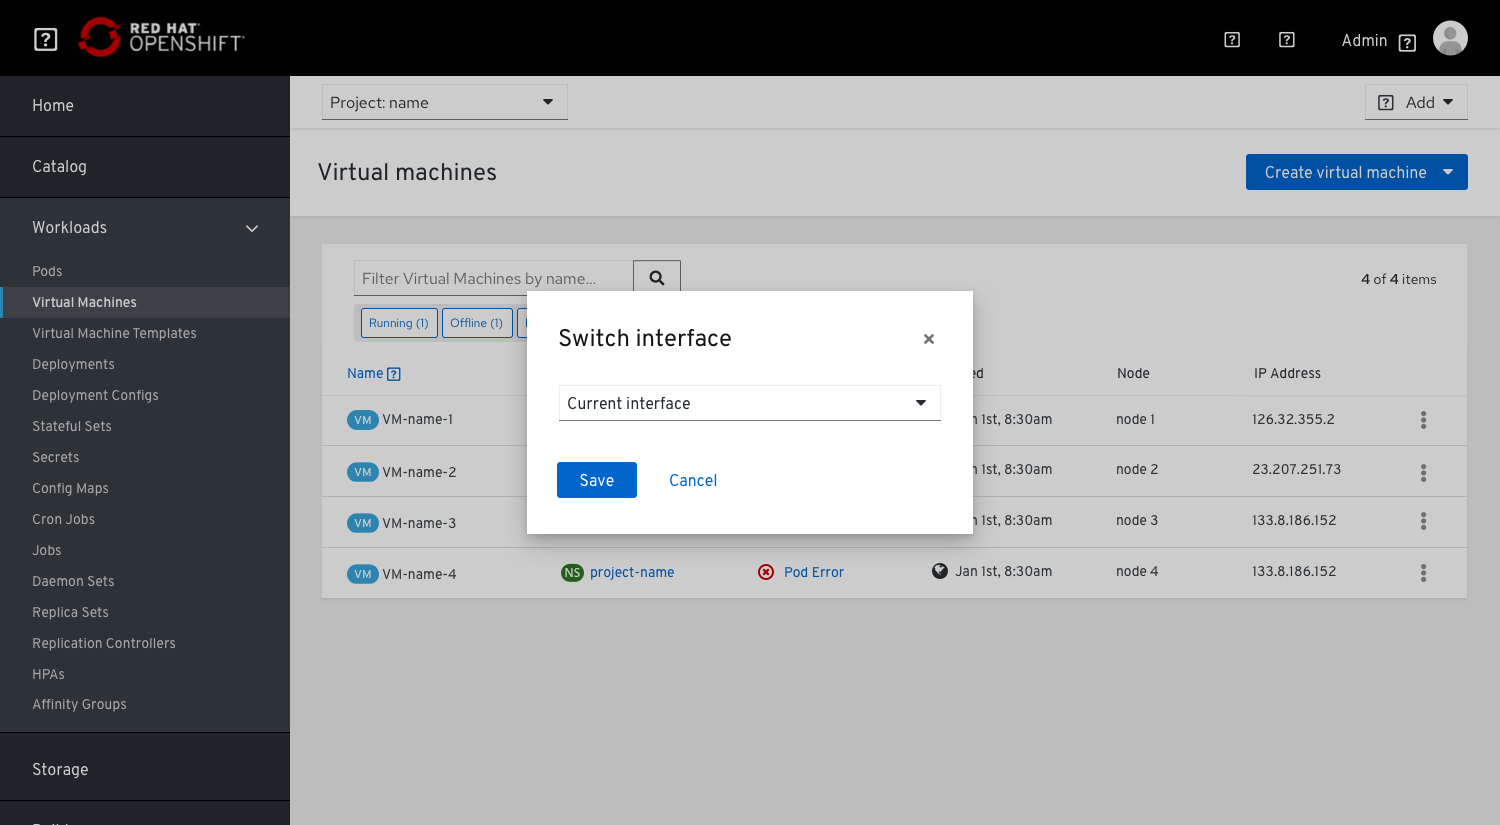
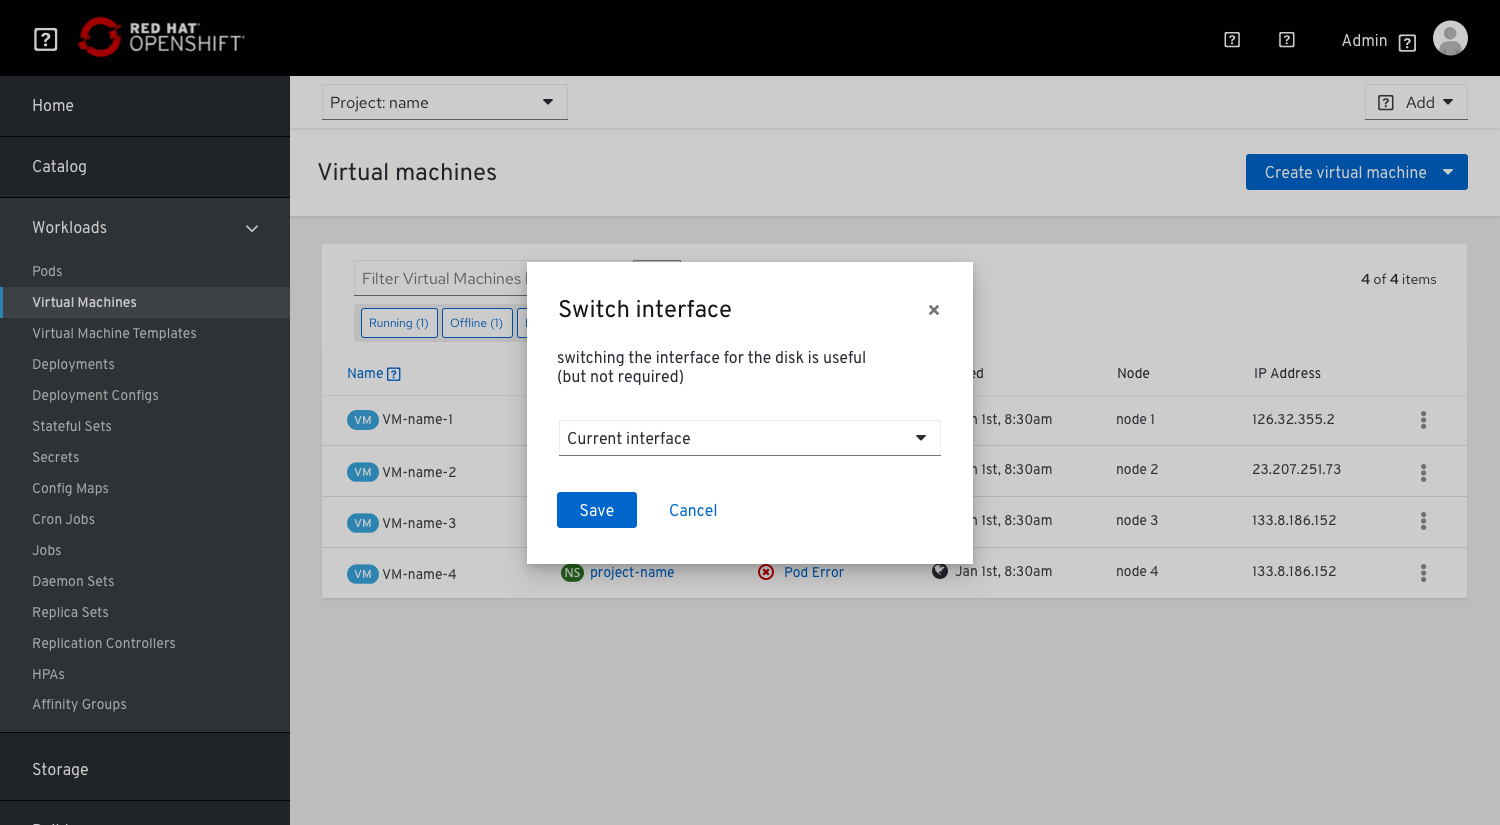
noting that switching interface is required but not mandatory

Changed region(s): [[0.3373, 0.303, 0.6747, 0.697]]

diff --git a/web-console/knikubevirt/windows-vms/windows-vms.md b/web-console/knikubevirt/windows-vms/windows-vms.md
@@ -48,7 +48,7 @@ If they choose to switch Interfaces they will be asked when they choose to sched
 
 ![user can schedule to switch interface](img/SwitchInterface.png)
 
-This is another option that allows the user to change the interface without scheduling a specific time, so just a dropdown with the current interface selected by default (the other option in the drop down would be Virtio-scsi interface) and then the user can either Save or Cancel the change
+This is another option that allows the user to change the interface without scheduling a specific time, so just a dropdown with the Sata interface (currently selected) by default (the other option in the drop down would be Virtio-scsi interface) and then the user can either Save or Cancel the change
 ![user can switch interface](img/SwitchInterfaceOp2.png)
 
 The users would need to be aware that switching the interface for the disk is useful (but not required). It’s important to note that it’s not required because they will not get an error stating there is an issue.
